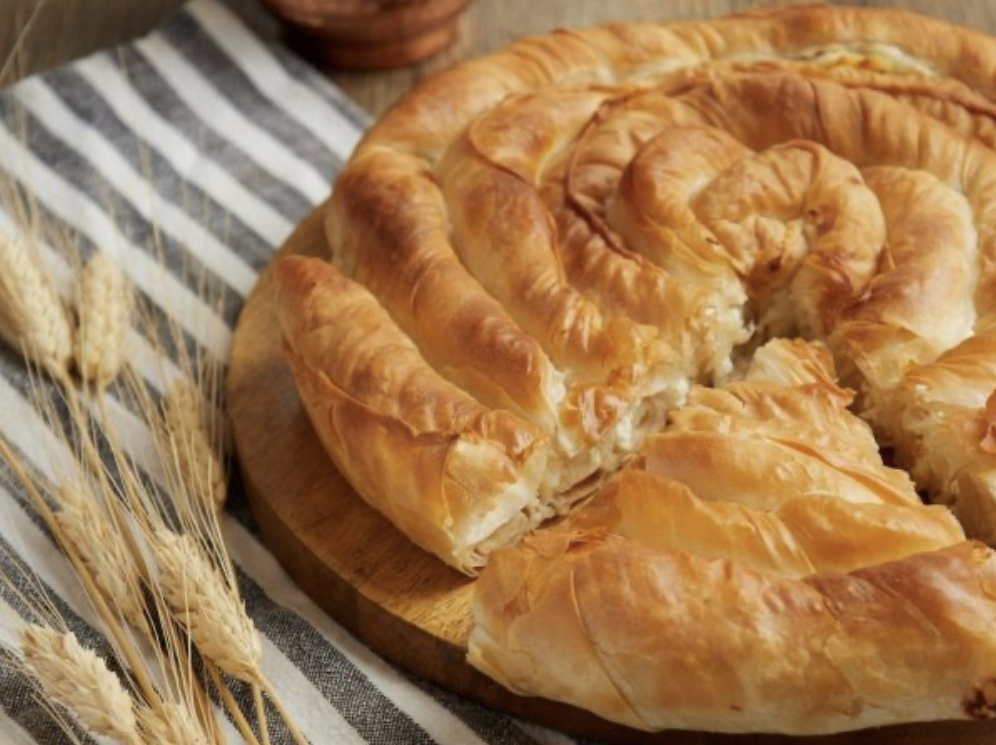
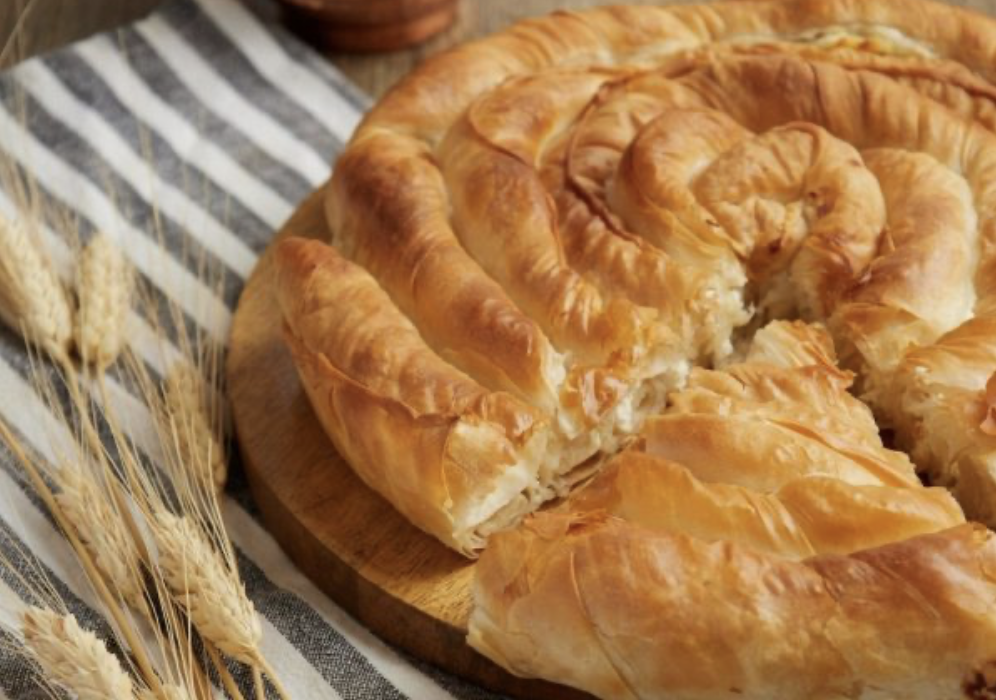
Update

diff --git a/spiralburek.html b/spiralburek.html
@@ -138,7 +138,7 @@
       <div class="blog-detail">
         <hr>
         <div class="rounded-12 overflow-hidden position-relative tstbite-svg">
-          <img src="assets/images/food/spiralburek1.png" class="w-100" >
+          <img src="assets/images/food/spiralburek3.png" class="w-100" >
         </div>
         <br>
         <div class="row mt-0 mt-md-5">
@@ -204,31 +204,35 @@
               <ul class="instruction-list list-unstyled">
                 <li>
                   <span>1</span>
-                  In a mixing bowl combine flour, salt, EVOO, and 1 cup of water. Mix with your hands until dough becomes not too soft and a little bit sticky. If the dough is too hard, add a little more water. If the dough is too soft and sticky, add a little more flour. The perfect texture will be not too soft and a little bit sticky.
+                  In a mixing bowl combine flour, salt, and EVOO. Pour one cup of water in and mix. Check the texture to see if you need more water. The perfect texture will be not too soft and a little bit sticky. If the dough is too hard, add a little bit more water. If it's too soft and too sticky, add a little bit flour. Usually 1 1/2 cups of water is needed, which is roughly 400 mL.
                 </li>
                 <li>
                   <span>2</span>
-                  Take the dough and put it on a flat surface. Knead the dough with your wrists. Roll the dough, fold it over itself, then roll it again. Repeat this for five minutes.
+                  Once you find the perfect texture, take the dough and put it on a flat surface. Using your wrists, knead thd dough for about 5 minutes. Do not use your palms as the wrists are much more efficient. 
                 </li>
                 <li>
                   <span>3</span>
-                  Transfer the dough back to the bowl and spread a slight layer of EVOO on top with your hands, just so that it lightly covers the dough. Cover the bowl with plastic wrap twice. Wait 30 minutes for the dough to rest.
+                  When you are done kneading the dough, put it back in the bowl and cover it in EVOO. Place plastic wrap over the bowl to cover it.
                 </li>
                 <li>
                   <span>4</span>
-                  After the dough has rested for 30 minutes, preheat the oven to 360°F. Take the dough out and put it on a flat surface. Roll the dough into a log. Using your hands, cut the dough into 8 small equally sized pieces, then roll each into a ball. Cover each ball with a thin layer of EVOO using your hands so that they don't dry out. Put them all aside.
+                  Set the bowl aside and let the dough rest for about 30 minutes. 
                 </li>
                 <li>
                   <span>5</span>
-                  
+                  Once the dough has rested for 30 minutes, begin to roll the dough into the shape of a log. Separate the dough in about 8 to 10 small spheres. Make sure to cover each sphere with EVOO so they don't dry out - don't put too much EVOO, and don't put too little either. Put them all aside and grab the first sphere.
                 </li>
                 <li>
                   <span>6</span>
-                  
+                  Preheat the oven to 360°F. Roll the first sphere out several times, then flip it 90 degrees to start rolling it again. Repeat this process until the sheet is so thin you can see the countertop underneath it. You are looking to maintain a rectangular shape as you roll out the dough.
                 </li>
                 <li>
                   <span>7</span>
-                  Bake for 40-50 minutes, or until the burek is golden brown. Let cool for 5 before slicing.
+                  Now that the sheet is ready, we are going to fill it with cheese. Use a spoon to spread the cheese on the bottom half of the sheet. Feel free to spread some melted butter across the rest of the sheet to give the burek more flavor. Grab the side of the sheet with cheese spread and start rolling it towards the opposite side. Try not to make it too tight because when we bake it, the layers will separate from each other. Repeat this process for the remaining spheres.
+                </li>
+                <li>
+                  <span>8</span>
+                  To bake the burek, use a cast iron and make sure the bottom is covered with a thin layer of melted butter. Take the first roll and place it in a spiral shape starting at the middle of the cast iron. Place the remaining rolls around the first sphere until you have a spiral in the cast iron. Brush the spiral with a thin layer of melted butter. Bake the burek for 40 to 50 minutes, until it's golden brown. When it's done, it should be crispy on the outside and soft on the inside. Let it cool down for a few minutes before you cut it.
                 </li>
               </ul>
             </div>
@@ -246,6 +250,11 @@
         <div class="col-md-4">
           <figure class="my-3 tstbite-card">
             <img src="assets/images/food/spiralburek2.jpeg" class="w-100" alt="Spiral Burek">
+          </figure>
+        </div>
+        <div class="col-md-4">
+          <figure class="my-3 tstbite-card">
+            <img src="assets/images/food/spiralburek3.png" class="w-100" alt="Spiral Burek">
           </figure>
         </div>
       </div>

diff --git a/savory.html b/savory.html
@@ -280,6 +280,16 @@
             </figcaption>
           </figure>
         </div>
+        <div class="col-md-4">
+          <figure class="my-3 tstbite-card">
+            <a href="/spiralburek" class="tstbite-animation rounded-6">
+              <img src="assets/images/food/spiralburek3.png" class="w-100" alt="Spiral Burek">
+            </a>
+            <figcaption class="mt-2">
+              <a href="/spiralburek" class="f-size-20 text-black d-block mt-1 font-weight-semibold">Spiral Burek</a>
+            </figcaption>
+          </figure>
+        </div>
       </div>
     </div>
     </section>

diff --git a/breads.html b/breads.html
@@ -248,6 +248,16 @@
             </figcaption>
           </figure>
         </div>
+        <div class="col-md-4">
+          <figure class="my-3 tstbite-card">
+            <a href="/spiralburek" class="tstbite-animation rounded-6">
+              <img src="assets/images/food/spiralburek3.png" class="w-100" alt="Spiral Burek">
+            </a>
+            <figcaption class="mt-2">
+              <a href="/spiralburek" class="f-size-20 text-black d-block mt-1 font-weight-semibold">Spiral Burek</a>
+            </figcaption>
+          </figure>
+        </div>
       </div>
     </section>
   </div>
